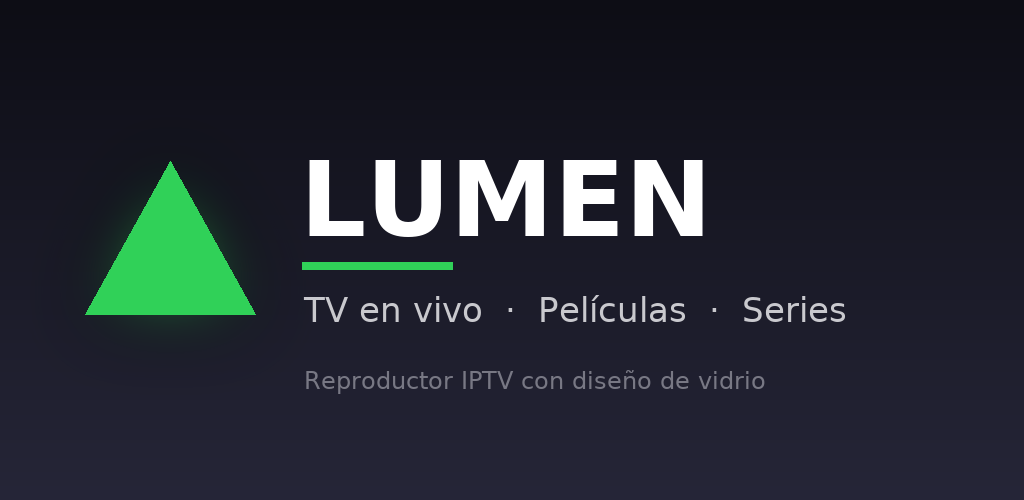
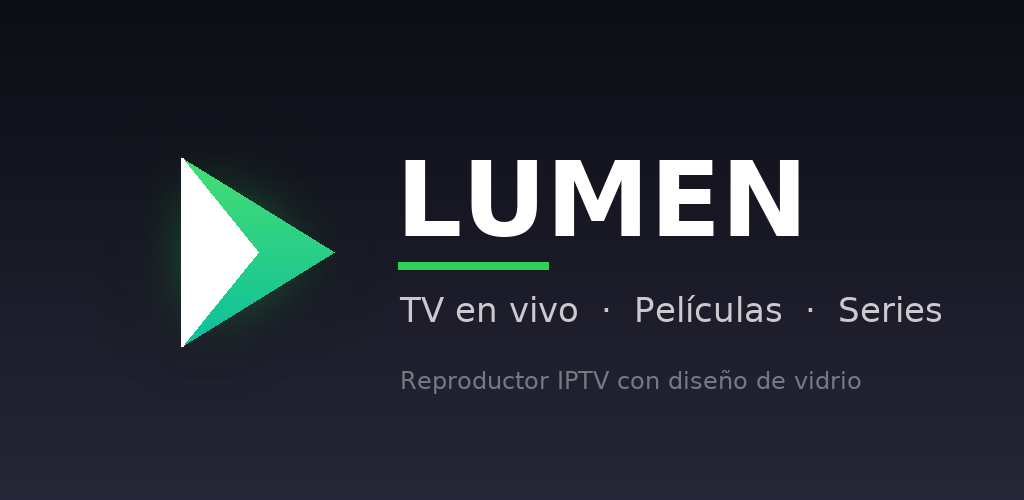
feat: nuevo icono Lumen — play de vidrio 3D (concepto elegido)
- drawable-nodpi: icon_lumen_prisma.png -> icon_lumen_play.png (arte nuevo
  render 3D: play de cristal con filamento de luz menta, estilo Apple TV).
- Referencias renombradas: MainActivity, activity_main, anydpi v21/v26 (x4).
- Vector viejo ic_launcher_foreground.xml eliminado (sin usos).
- Glifo de marca (ic_lumen_glyph + drawGlyph de la tarjeta) ahora apunta
  como play para hablar el mismo idioma visual que el icono.
- Play Store: icon_512.png y feature_graphic.png actualizados al nuevo arte.

diff --git a/app/src/main/java/com/samuelpart/iptvplayer/ContentCardShare.kt b/app/src/main/java/com/samuelpart/iptvplayer/ContentCardShare.kt
@@ -85,7 +85,7 @@ object ContentCardShare {
                 c.drawRect(0f, 0f, POSTER_W.toFloat(), H.toFloat(), p)
                 p.shader = null
             } else {
-                // Sin poster: degradado + glifo prisma grande centrado
+                // Sin poster: degradado + glifo play grande centrado
                 p.shader = LinearGradient(
                     0f, 0f, POSTER_W.toFloat(), H.toFloat(),
                     intArrayOf(0xFF15151F.toInt(), 0xFF262638.toInt()),
@@ -174,13 +174,13 @@ object ContentCardShare {
         }
     }
 
-    /** Glifo prisma de Lumen dibujado por path (reutilizable, vector 24 escalado). */
+    /** Glifo play de Lumen dibujado por path (reutilizable, vector 24 escalado). */
     private fun drawGlyph(c: Canvas, p: Paint, x: Float, y: Float, size: Float, color: Int) {
         val gl = size / 24f
         val path = Path().apply {
-            moveTo(x + 12 * gl, y + 2.6f * gl)
-            lineTo(x + 21.2f * gl, y + 19.2f * gl)
-            lineTo(x + 2.8f * gl, y + 19.2f * gl)
+            moveTo(x + 6.2f * gl, y + 3.4f * gl)
+            lineTo(x + 20.4f * gl, y + 12f * gl)
+            lineTo(x + 6.2f * gl, y + 20.6f * gl)
             close()
         }
         p.color = color

diff --git a/app/src/main/java/com/samuelpart/iptvplayer/MainActivity.kt b/app/src/main/java/com/samuelpart/iptvplayer/MainActivity.kt
@@ -1905,7 +1905,7 @@ class MainActivity : AppCompatActivity() {
         label.contains("CRUNCHYROLL") -> R.drawable.ic_brand_crunchyroll
         label.contains("TUBI") -> R.drawable.ic_brand_tubi
         label.contains("PEACOCK") -> R.drawable.ic_brand_peacock
-        else -> R.drawable.icon_lumen_prisma
+        else -> R.drawable.icon_lumen_play
     }
 
     private var premierKind = "all"
